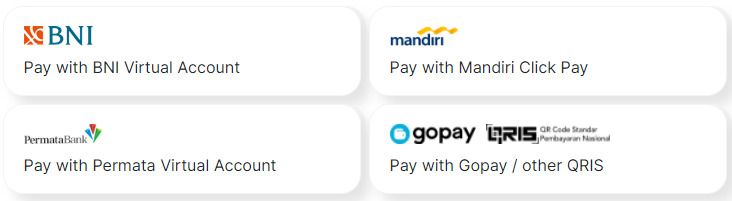
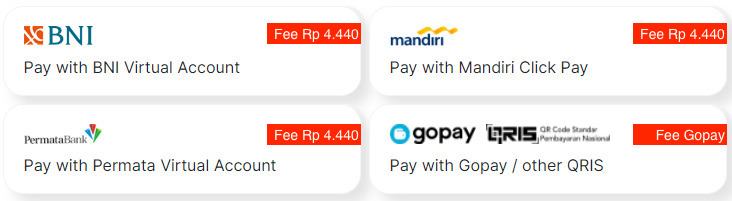
init term of payment

diff --git a/index.html b/index.html
@@ -624,19 +624,18 @@ Ketiga prosedur operasi rambut tersebut dapat dikombinasikan satu sama lain atau
                                 <div class="modal-body">
                                     <!-- Project details-->
                                     <h2 class="text-uppercase">Payment Method</h2>
-                                    <p class="item-intro text-muted">Metode pembayaran yang tersedia untuk melakukan transaksi ini</p>
+                                    <p class="item-intro text-muted">Metode pembayaran yang tersedia untuk melakukan transaksi ini. Perlu Anda perhatikan juga bahwa setiap metode pembayaran memiliki fee-nya masing-masing di luar harga tiket yang harus Anda bayarkan! </p>
                                     <img class="img-fluid d-block mx-auto" src="assets/img/portfolio/12.jpg" alt="..." />
                                     <p>
                                     Lakukan transaksi lebih lanjut via Whatsapp dengan format formulir berikut ini:
                                     </p>
-                                    <br>
                                     <b>
                                         <p>
                                         Nama Lengkap: 
                                         </p>
                                     </b>
                                     <b><p>
-                                        Pilihan Produk: (* Pisahkan dengan koma (,) jika lebih dari satu)
+                                        Pilihan Produk: (pisahkan dengan koma (,) jika lebih dari satu)
                                     </p></b>
                                     <b><p>
                                         Payment Method:
